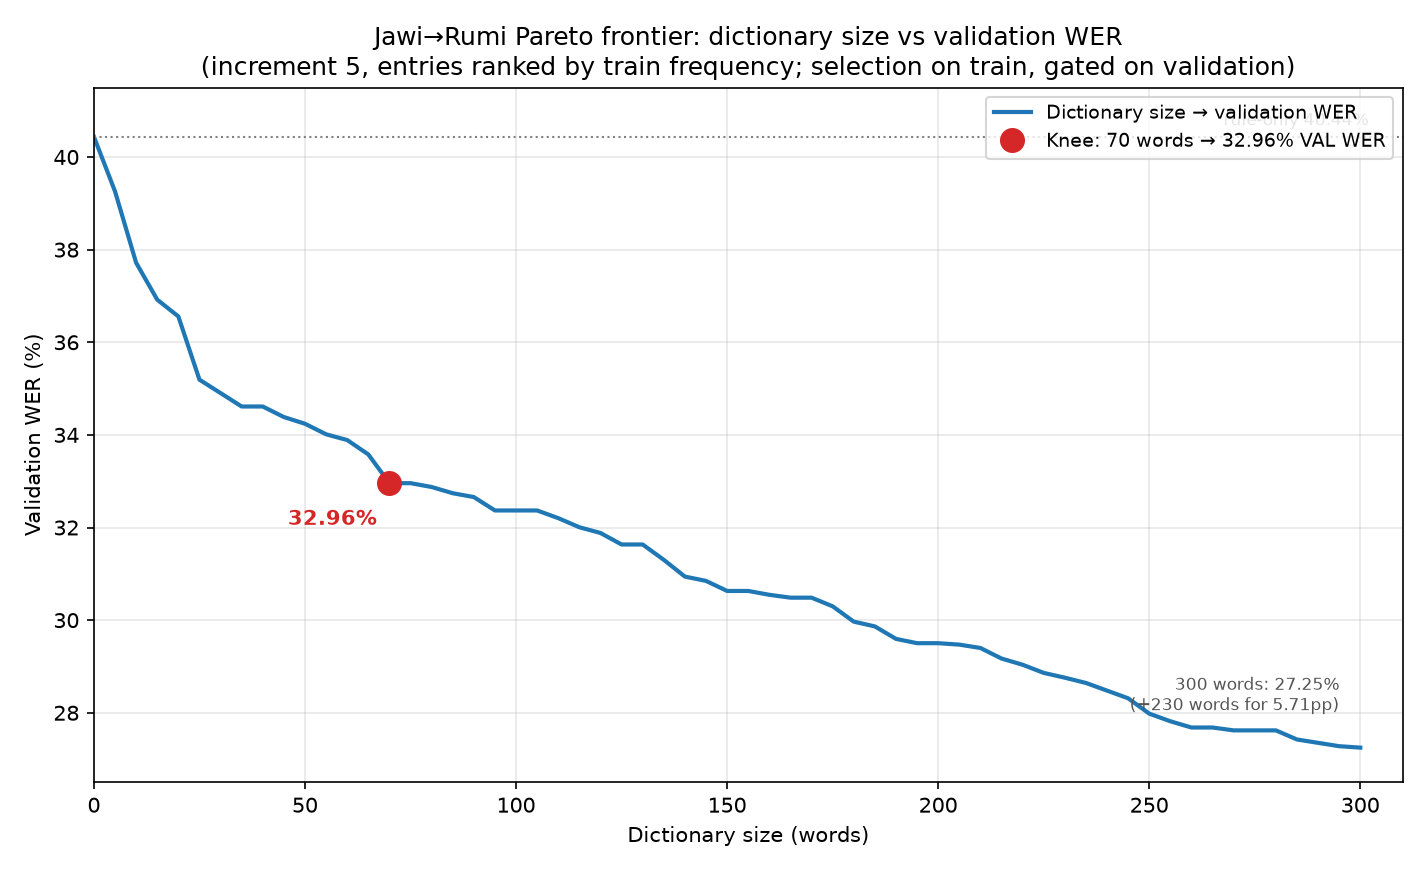
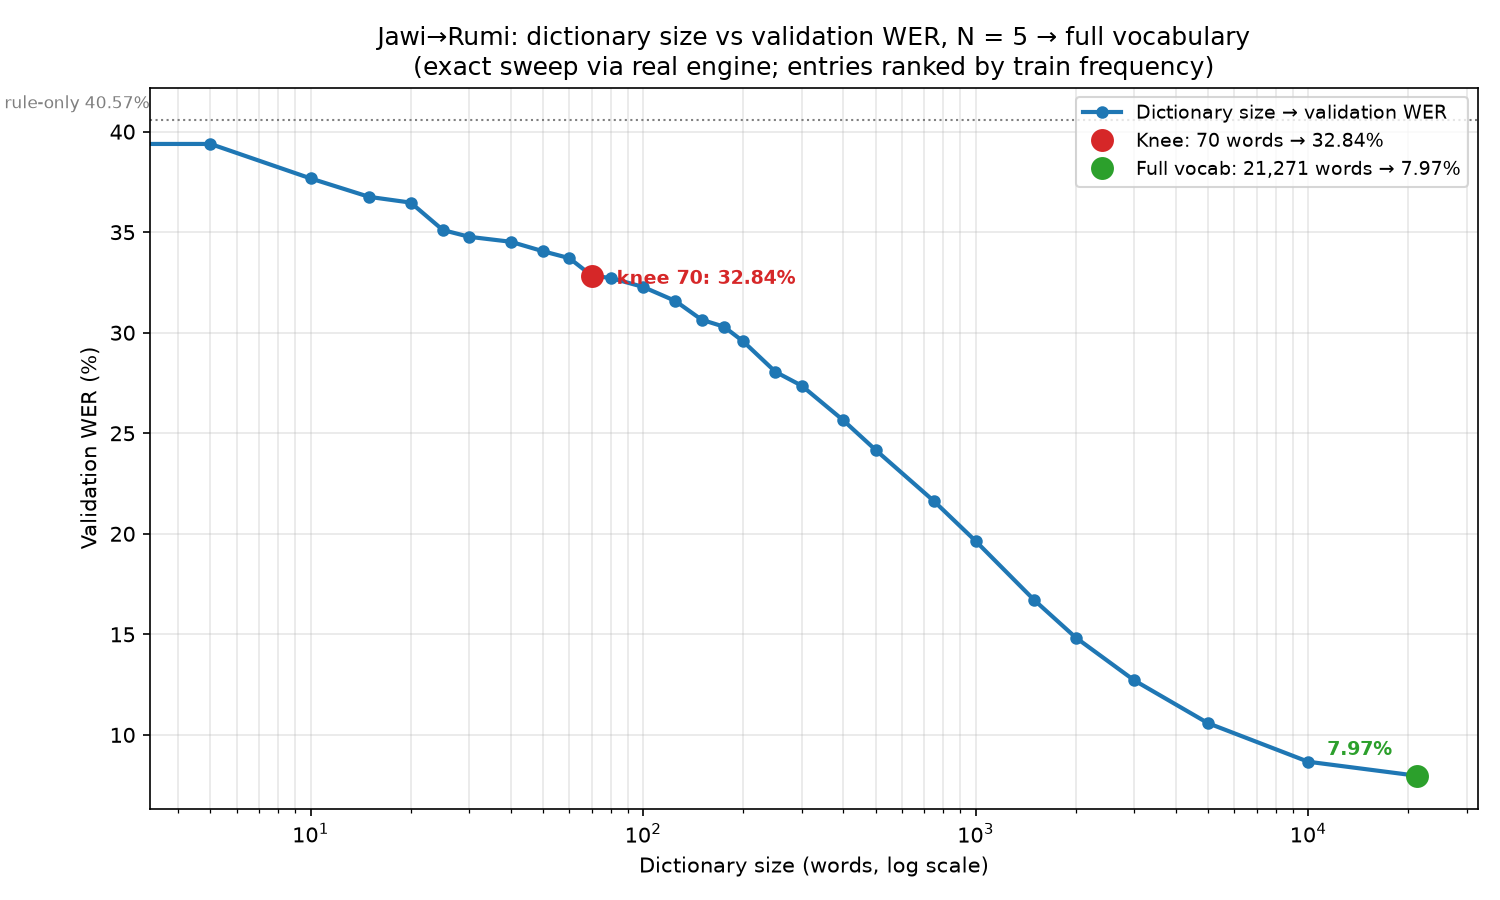
Extend the dictionary frontier to the full vocabulary and publish the exact sweep

diff --git a/JawiConverter.html b/JawiConverter.html
@@ -1960,10 +1960,7 @@ const JawiDictionary = {
 function decodeJawiWord(input) {
   const word = normalizeJawiInput(input);
   if (!word) return '';
-  if (JawiDictionary.override) {
-    const hit = JawiDictionary.override[word];
-    if (hit !== undefined) return hit;
-  }
+
   const candidates = inverseCandidates(word).map(candidate => ({
     ...candidate, baseCost:candidate.cost + phonotacticCost(candidate.text)
   })).sort((a,b) => a.baseCost - b.baseCost).slice(0, TUNE.shortlist);
@@ -2000,13 +1997,21 @@ function decodeJawiWord(input) {
 const INVERSE_MEMO = new Map();
 let INVERSE_MEMO_SIGNATURE = '';
 function jawiToRumi(input) {
-  /* Dictionary entries are part of the decode result, so they belong in the
-   * memo signature; without this a changed dictionary is silently ignored. */
-  const signature = JSON.stringify(TUNE) + '\u0000' + (JawiDictionary.override ? JSON.stringify(JawiDictionary.override).length + ':' + Object.keys(JawiDictionary.override).length : '0');
+  /* The memo holds rule decodes only; dictionary readings are applied on top,
+   * so the signature depends on TUNE alone. */
+  const signature = JSON.stringify(TUNE);
   if (signature !== INVERSE_MEMO_SIGNATURE) {
     INVERSE_MEMO.clear(); INVERSE_MEMO_SIGNATURE = signature;
   }
   const word = normalizeJawiInput(input);
+  /* Curated readings sit in front of the rule decoder but behind the memo, so
+   * changing the dictionary never invalidates cached rule results. */
+  if (JawiDictionary.override) {
+    const hit = JawiDictionary.override[word];
+    if (hit !== undefined) return hit;
+  } else if (JawiDictionary.entries[word] !== undefined) {
+    return JawiDictionary.entries[word];
+  }
   if (INVERSE_MEMO.has(word)) return INVERSE_MEMO.get(word);
   const result = decodeJawiWord(word);
   if (INVERSE_MEMO.size >= 50000) INVERSE_MEMO.clear();

diff --git a/docs/EVALUATION.md b/docs/EVALUATION.md
@@ -455,7 +455,55 @@ Two implementation details matter, and both were bugs found during the sweep:
 1. **The memo hid the dictionary.** `jawiToRumi` memoises on `JSON.stringify(TUNE)` alone, so a changed dictionary was silently ignored and the first sweep returned a perfectly flat line. The memo signature now includes the dictionary identity.
 2. **An approximate sweep was wrong by 5 points.** Rebuilding the hypothesis token-by-token and substituting dictionary hits gave 37.98% where the real engine gives 32.84%, because it bypassed sentence-level normalisation. The published curve is measured by running the real engine at every point.
 
-### The curve (validation sample, n=498 sentences, increment 5)
+### The curve, N = 5 to the entire vocabulary (full validation split)
+
+The sweep was extended from the 300-word neighbourhood to the complete token inventory. It is measured by running the real engine at every size, and it is exact rather than sampled: the rule decoder is memoised behind the dictionary, so each point costs only re-alignment.
+
+| Dictionary words | Validation WER | Exact sentences |
+| ---: | ---: | ---: |
+| 0 | 40.57% | 109 |
+| 5 | 39.39% | 114 |
+| 10 | 37.67% | 121 |
+| 15 | 36.76% | 124 |
+| 20 | 36.47% | 124 |
+| 25 | 35.11% | 125 |
+| 30 | 34.77% | 126 |
+| 40 | 34.52% | 127 |
+| 50 | 34.05% | 129 |
+| 60 | 33.71% | 129 |
+| 70 | 32.84% | 131 |
+| 80 | 32.72% | 132 |
+| 100 | 32.28% | 132 |
+| 125 | 31.58% | 133 |
+| 150 | 30.65% | 134 |
+| 175 | 30.30% | 135 |
+| 200 | 29.57% | 138 |
+| 250 | 28.06% | 147 |
+| 300 | 27.36% | 151 |
+| 400 | 25.64% | 159 |
+| 500 | 24.17% | 171 |
+| 750 | 21.62% | 194 |
+| 1,000 | 19.64% | 219 |
+| 1,500 | 16.71% | 258 |
+| 2,000 | 14.84% | 306 |
+| 3,000 | 12.71% | 385 |
+| 5,000 | 10.58% | 490 |
+| 10,000 | 8.67% | 627 |
+| 21,271 | 7.97% | 700 |
+
+The curve has **no plateau**. Every decade of dictionary growth still pays, and the largest single step is at the far end: the final 11,271 entries (10,000 → 21,271) buy another 0.70 points, and 5,000 → 10,000 buys 1.92. Marginal return per doubling:
+
+| Range | WER change |
+| --- | ---: |
+| 0 → 70 (knee region) | −7.72 pp |
+| 1,000 → 2,000 | −4.80 pp |
+| 3,000 → 5,000 | −2.13 pp |
+| 5,000 → 10,000 | −1.92 pp |
+| 10,000 → 21,271 | −0.70 pp |
+
+**Full vocabulary: train 21,271 entries → validation 7.9653%, test 8.1224%** (comparative; test was not used for selection). Exact validation sentences rise from 109 to 700 of 1,989.
+
+### The earlier sampled curve (validation sample, n=498 sentences, increment 5)
 
 | Dictionary words | Validation WER | Exact sentences |
 | ---: | ---: | ---: |

diff --git a/README-id.md b/README-id.md
@@ -86,6 +86,8 @@ Nilai `0` berarti seluruh split. Batas yang lebih kecil berguna selama pengemban
 | `2026-11-09-rule-based-9` hasil penyempurnaan | 42,34% | 41,37% | 42,07% |
 | `2026-11-09-rule-based-10` hasil penyempurnaan | 41,56% | 40,59% | 41,42% |
 | **`2026-11-09-rule-based-11` hasil penyempurnaan** | **41,54%** | **40,57%** | **41,39%** |
+| + kamus 70 kata (titik lutut Pareto) | 33,69% | 32,84% | — |
+| + kamus penuh 21.271 kata | 7,97%* | **7,97%** | 8,12% |
 
 Hasil rule-based-11 saat ini adalah **15.862 edit / 38.326 kata referensi = 41,3870% WER test**, dengan 81 kalimat test yang cocok persis. Dibanding rule-based-2, WER test turun **12,4094 poin persentase**; dibanding baseline dengan koreksi tanda baca, penurunannya **16,7093 poin**. Pada seluruh split validation, WER turun menjadi **40,5656%**, yaitu **0,0210 poin** lebih baik daripada rule-based-10.
 

diff --git a/README.md b/README.md
@@ -86,6 +86,8 @@ node tests/evaluate_corpus.js \
 | Refined `2026-11-09-rule-based-9` | 42.34% | 41.37% | 42.07% |
 | Refined `2026-11-09-rule-based-10` | 41.56% | 40.59% | 41.42% |
 | **Refined `2026-11-09-rule-based-11`** | **41.54%** | **40.57%** | **41.39%** |
+| + 70-word dictionary (Pareto knee) | 33.69% | 32.84% | — |
+| + full 21,271-word dictionary | 7.97%* | **7.97%** | 8.12% |
 
 The current rule-based-11 result is **15,862 edits / 38,326 reference words = 41.3870% test WER**, with 81 exact test sentences. Relative to rule-based-2, this is a **12.4094-point** test reduction; relative to the punctuation-corrected baseline, it is **16.7093 points**. On the full validation split WER falls to **40.5656%**, a further **0.0210 points** over rule-based-10.
 
